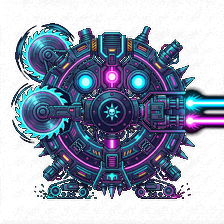
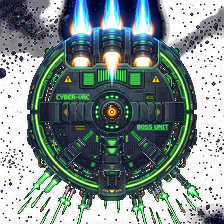
Implement Phase 2 for Boss 2 (IRS) and Boss 3 (Roomba) with new models and transitions

diff --git a/src/scenes/GameScene.js b/src/scenes/GameScene.js
@@ -55,7 +55,9 @@ const ENEMY_DEFS = {
     protector: { hp: 200, speed: 30, score: 70, xp: 50, color: 0x00aaff, shoots: false },
     boss_cheese: { hp: 3000, speed: 20, score: 2000, xp: 1000, color: 0xffff00, shoots: true },
     boss_irs: { hp: 4500, speed: 30, score: 3000, xp: 1500, color: 0xff0000, shoots: true },
+    boss_irs_p2: { hp: 6000, speed: 45, score: 4000, xp: 2000, color: 0xff4400, shoots: true },
     boss_vacuum: { hp: 6000, speed: 40, score: 4000, xp: 2000, color: 0x00ffff, shoots: true },
+    boss_vacuum_p2: { hp: 8000, speed: 60, score: 6000, xp: 3000, color: 0x00ff00, shoots: true },
 };
 
 /**
@@ -1364,8 +1366,10 @@ export default class GameScene extends Phaser.Scene {
             charger: { sheet: 'enemy_charger_sheet', anim: null, scale: 0.3 },
             protector: { sheet: 'enemy_protector_sheet', anim: null, scale: 0.4 },
             boss_cheese: { sheet: 'boss_cheese', anim: 'anim_boss_cheese_idle', scale: 1.5 },
-            boss_irs: { sheet: 'boss_irs', anim: null, scale: 0.5 },
-            boss_vacuum: { sheet: 'boss_vacuum', anim: null, scale: 0.5 }
+            boss_irs: { sheet: 'boss_irs', anim: null, scale: 0.8 },
+            boss_irs_p2: { sheet: 'boss_irs_p2', anim: null, scale: 0.9 },
+            boss_vacuum: { sheet: 'boss_vacuum', anim: null, scale: 0.8 },
+            boss_vacuum_p2: { sheet: 'boss_vacuum_p2', anim: null, scale: 0.9 }
         };
         const sm  = SPRITE_MAP[type] || SPRITE_MAP.basic;
         const def = ENEMY_DEFS[type] || ENEMY_DEFS.basic;
@@ -2017,7 +2021,7 @@ export default class GameScene extends Phaser.Scene {
         this.spawnDeathFX(enemy.x, enemy.y, enemy.displayWidth > 50 ? 0xff3300 : 0xff8800);
         this.cameras.main.shake(120, enemy.type === 'boss' ? 0.018 : 0.006);
 
-        if (enemy.type === 'boss' || enemy.type === 'boss_cheese' || enemy.type === 'boss_irs' || enemy.type === 'boss_vacuum') {
+        if (enemy.type === 'boss_cheese' || enemy.type === 'boss_irs_p2' || enemy.type === 'boss_vacuum_p2') {
             this.triggerHitStop(3.0);
             if (enemy.type === 'boss' && this.achieveSys.unlock('boss_1')) {
                 this.showBanner('ACHIEVEMENT: Piratenkönig auf Abwegen!', '#00ffff');
@@ -2039,7 +2043,9 @@ export default class GameScene extends Phaser.Scene {
         }
         // ── BOSS PHASE 2 TRANSITIONS ──
         let phase2Type = null;
-        if (enemy.type === 'boss' && this.waveNum === 5) phase2Type = 'boss_cheese';
+        if (enemy.type === 'boss') phase2Type = 'boss_cheese';
+        if (enemy.type === 'boss_irs') phase2Type = 'boss_irs_p2';
+        if (enemy.type === 'boss_vacuum') phase2Type = 'boss_vacuum_p2';
 
         if (phase2Type) {
             this.waveLeft++; // keep wave alive

diff --git a/src/systems/BossSystem.js b/src/systems/BossSystem.js
@@ -48,11 +48,21 @@ export default class BossSystem {
             subtitle = "INTERDIMENSIONAL REVENUE SERVICE";
             c1 = "[1] 'Ich zahle keine Steuern!'";
             c2 = "[2] 'Ich habe meine Quittungen!'";
+        } else if (type === 'boss_irs_p2') {
+            title = "VOID I.R.S. - TRUE FORM";
+            subtitle = "DER KOSMISCHE STEUER-DÄMON";
+            c1 = "[1] 'Deine Frist ist abgelaufen!'";
+            c2 = "[2] 'Zeit für eine Nachzahlung!'";
         } else if (type === 'boss_vacuum') {
             title = "ROOMBA-TRON 9000";
             subtitle = "THE 4D LITTER BOX";
             c1 = "[1] 'Staub saugen? Niemals!'";
             c2 = "[2] 'Katzenhaare blockieren deine Bürsten!'";
+        } else if (type === 'boss_vacuum_p2') {
+            title = "ROOMBA-TRON - MELTDOWN";
+            subtitle = "CORE EXPOSED. CRITICAL ERROR.";
+            c1 = "[1] 'System überhitzt!'";
+            c2 = "[2] 'Lass ihn hochgehen!'";
         }
 
         this.showInteractiveBossIntro(title, subtitle, c1, c2, (modifier) => {
@@ -210,10 +220,10 @@ export default class BossSystem {
         } else if (bossType === "MECHA-GOUDA") {
             portraitKey = 'boss_p1_portrait_anim';
             animKey = 'anim_p1_portrait_talk';
-        } else if (bossType === "VOID I.R.S.") {
+        } else if (bossType === "VOID I.R.S." || bossType === "VOID I.R.S. - TRUE FORM") {
             portraitKey = 'boss_irs_portrait_anim';
             animKey = 'anim_irs_portrait_talk';
-        } else if (bossType === "ROOMBA-TRON 9000") {
+        } else if (bossType === "ROOMBA-TRON 9000" || bossType === "ROOMBA-TRON - MELTDOWN") {
             portraitKey = 'boss_vacuum_portrait_anim';
             animKey = 'anim_vacuum_portrait_talk';
         }

diff --git a/src/scenes/BootScene.js b/src/scenes/BootScene.js
@@ -93,8 +93,10 @@ export default class BootScene extends Phaser.Scene {
         this.load.spritesheet('boss_cheese_portrait_anim', 'assets/boss_cheese_portrait_anim.png?v=2', { frameWidth: 512, frameHeight: 512 });
         this.load.spritesheet('boss_p1_portrait_anim', 'assets/boss_p1_portrait_anim.png?v=2', { frameWidth: 512, frameHeight: 512 });
         this.load.image('boss_irs', 'assets/boss_irs.png?v=3');
+        this.load.image('boss_irs_p2', 'assets/boss_irs_p2.png?v=1');
         this.load.spritesheet('boss_irs_portrait_anim', 'assets/boss_irs_portrait_anim.png?v=1', { frameWidth: 512, frameHeight: 512 });
         this.load.image('boss_vacuum', 'assets/boss_vacuum.png?v=3');
+        this.load.image('boss_vacuum_p2', 'assets/boss_vacuum_p2.png?v=1');
         this.load.spritesheet('boss_vacuum_portrait_anim', 'assets/boss_vacuum_portrait_anim.png?v=1', { frameWidth: 512, frameHeight: 512 });
 
         // Cinematic intro images
